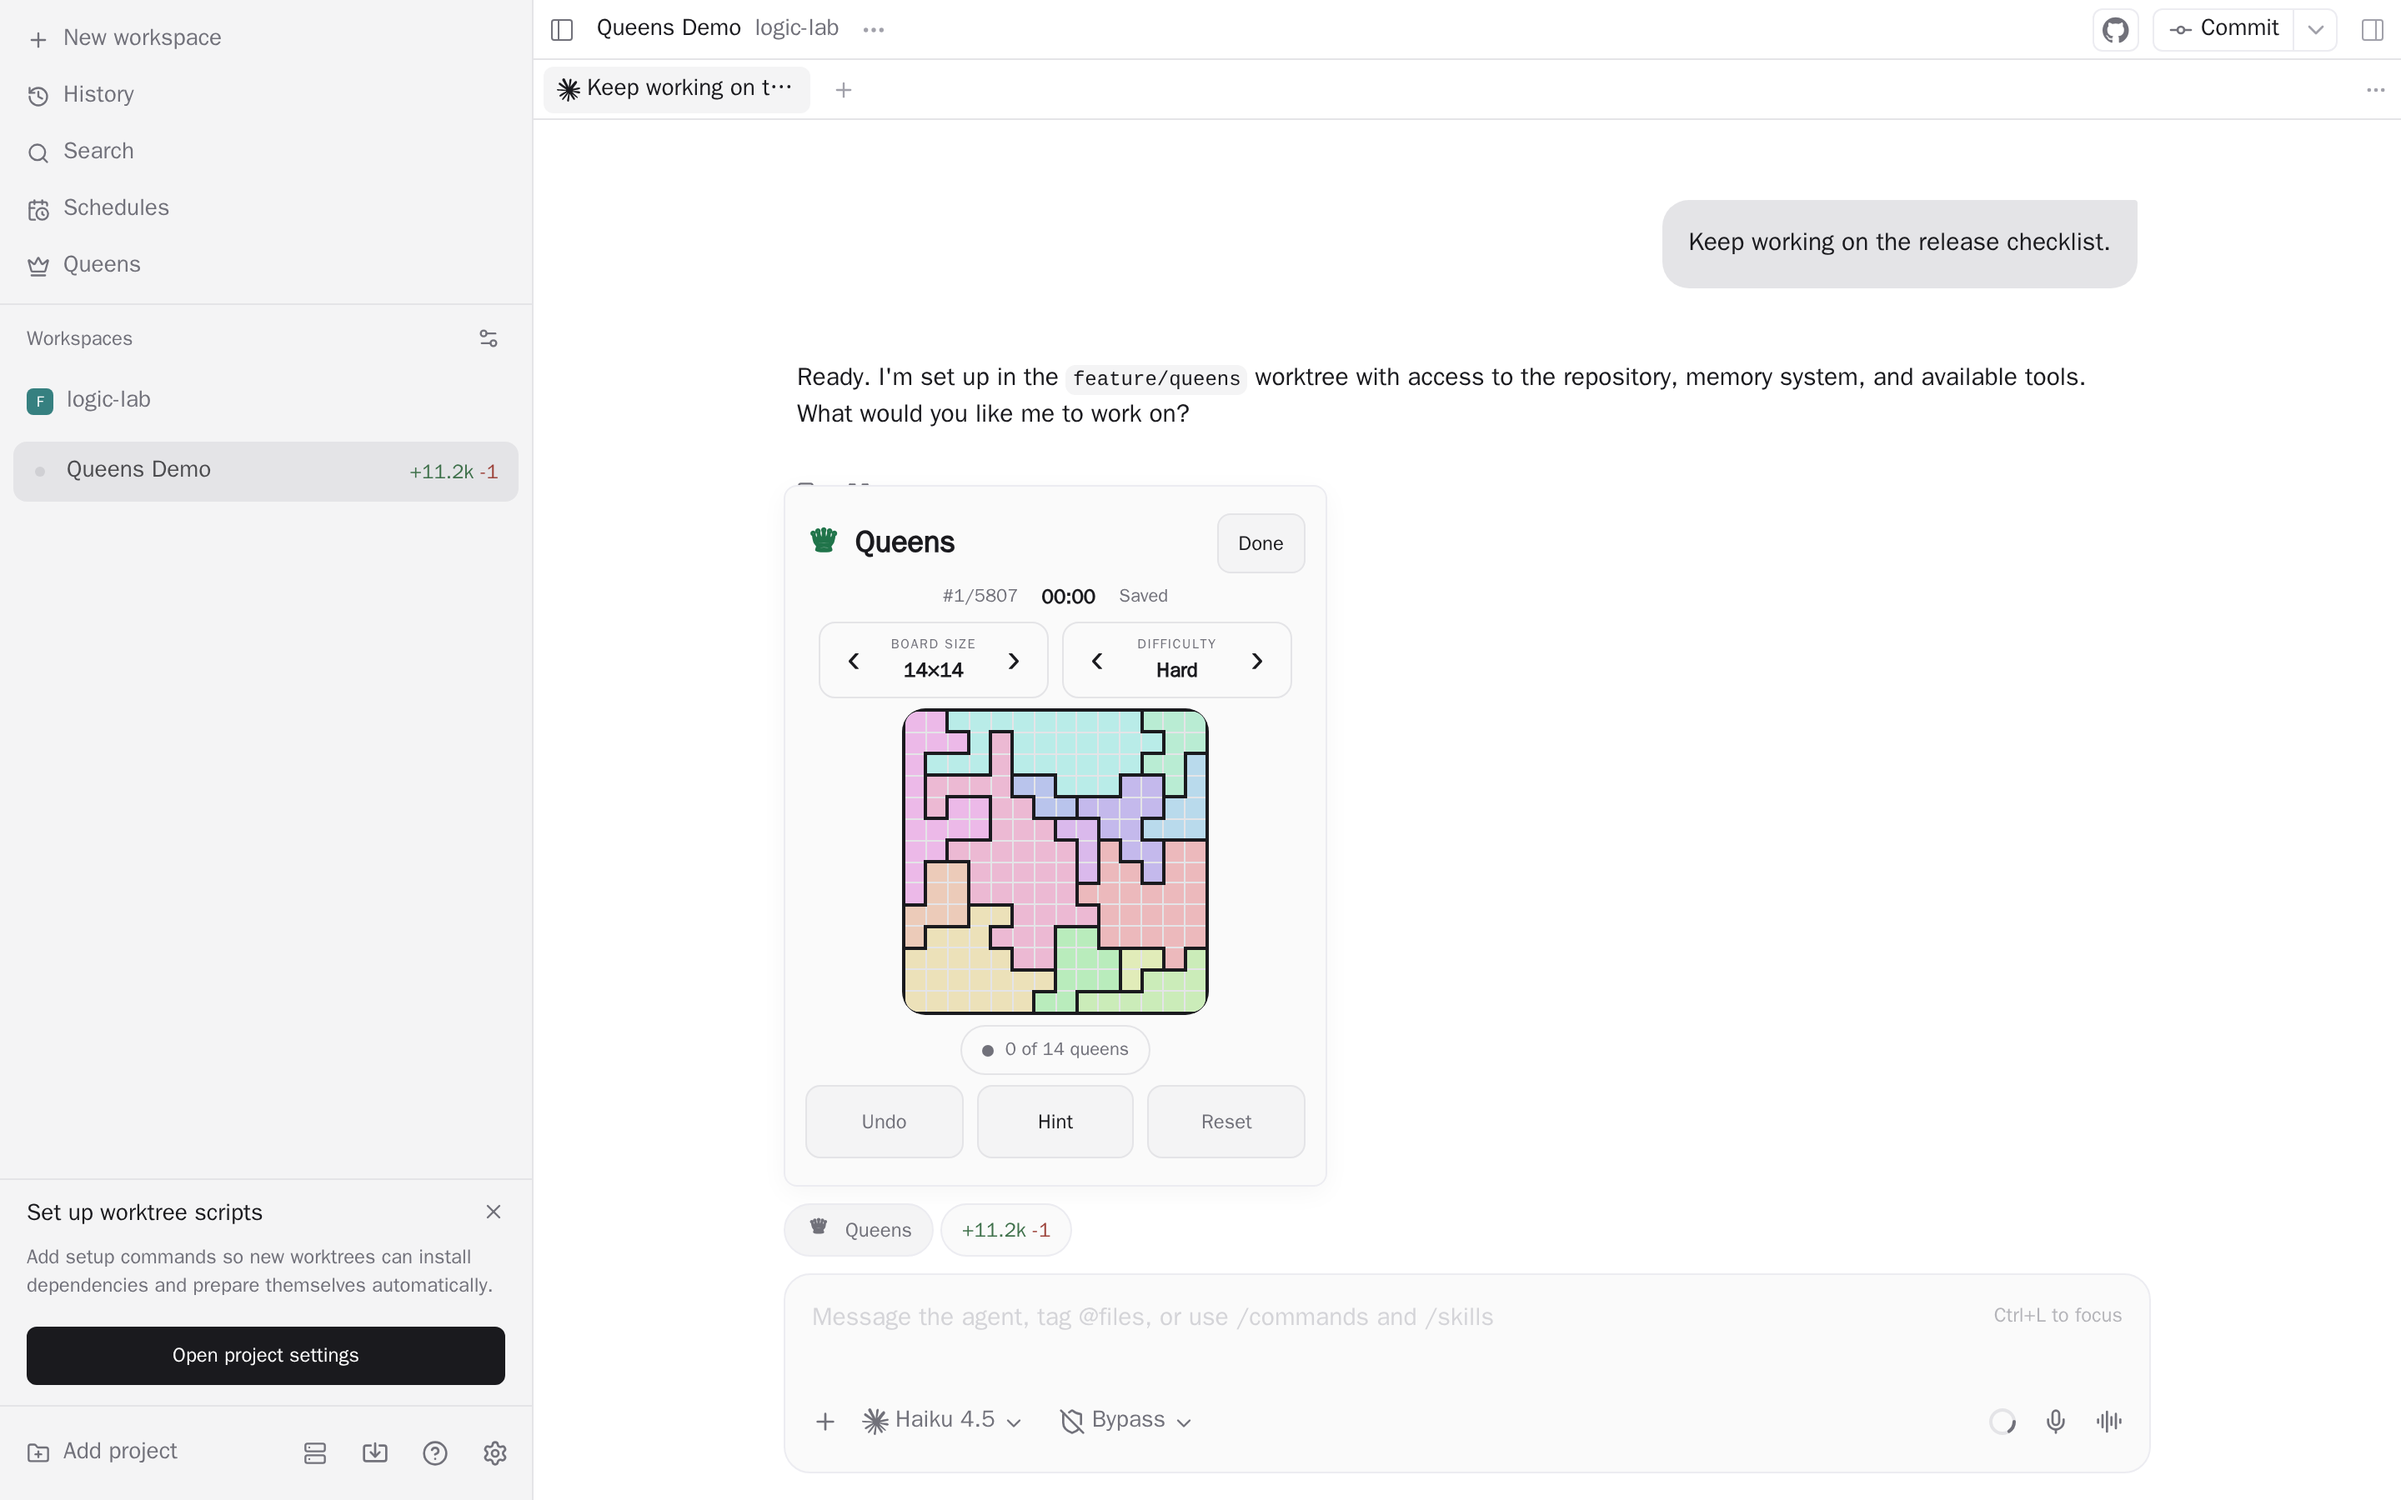
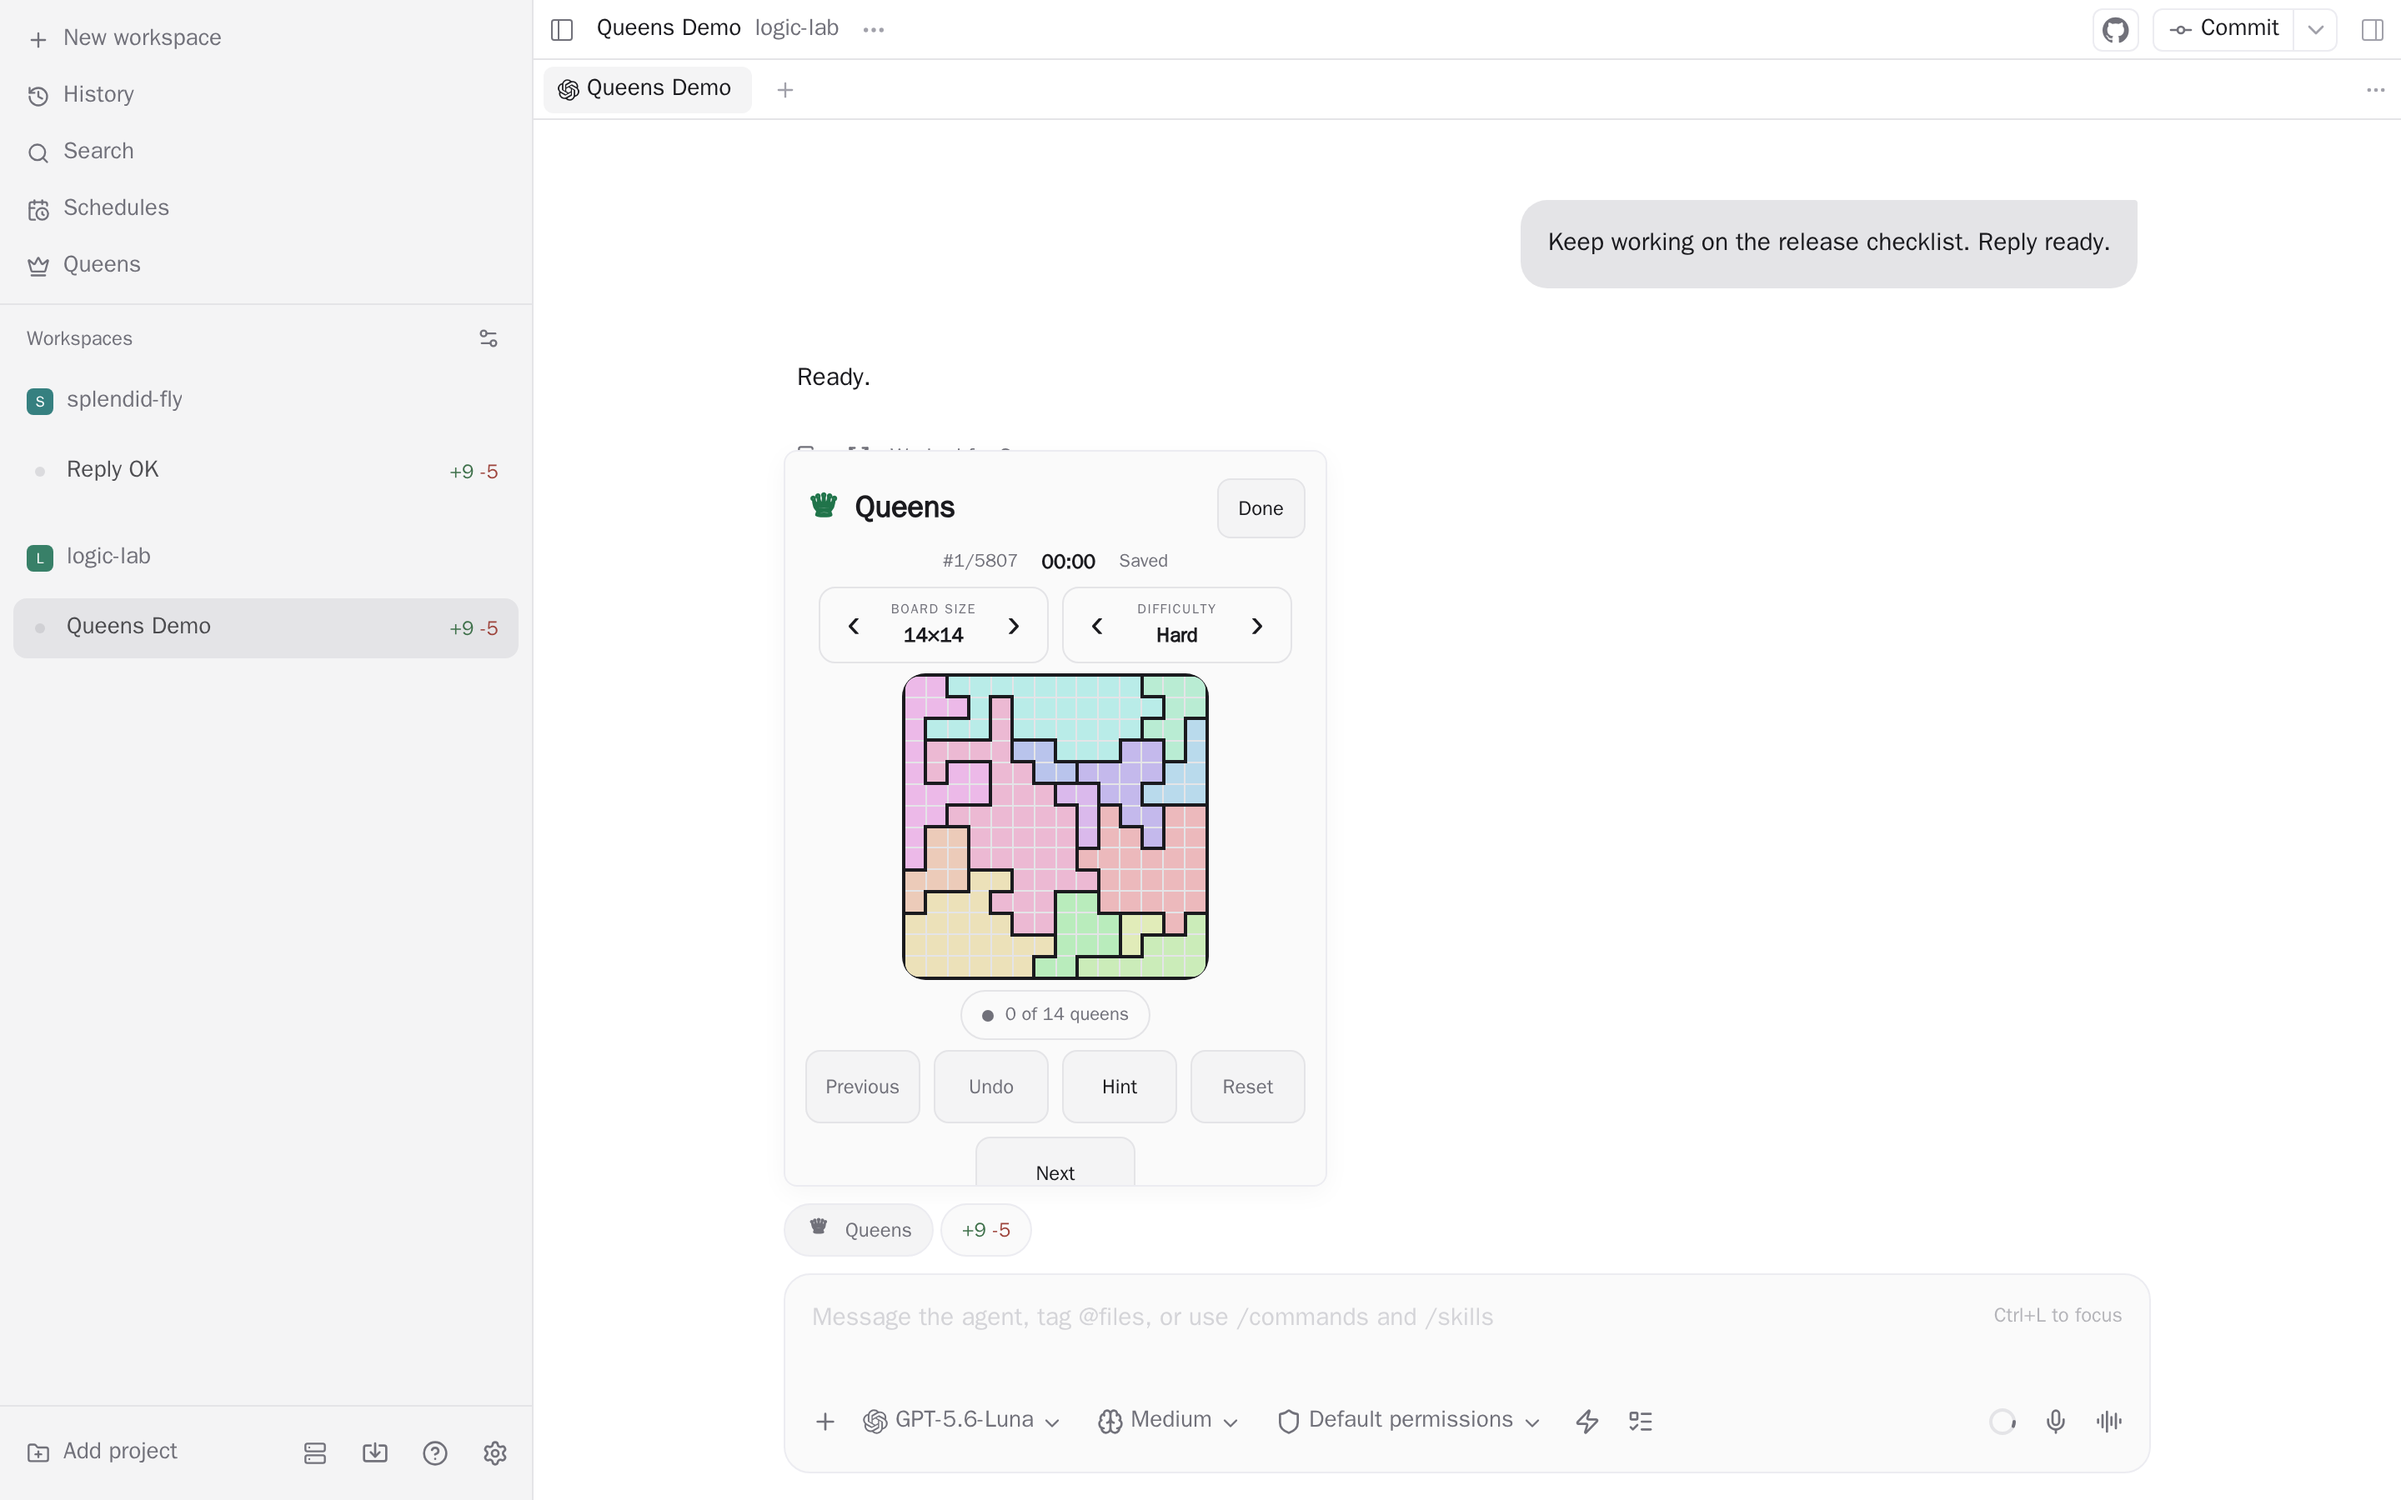
fix(queens): restore composer puzzle navigation (#145)

diff --git a/queens/client/queens-popover.tsx b/queens/client/queens-popover.tsx
@@ -144,6 +144,10 @@ function QueensPopoverGame({
       ? theme.colors.statusDanger
       : theme.colors.foregroundMuted;
   const puzzleNumber = state.activePuzzleIndex + 1;
+  const selectPuzzle = (index: number) => {
+    const clampedIndex = Math.min(Math.max(index, 0), state.puzzles.length - 1);
+    session.dispatch({ type: "select-puzzle", index: clampedIndex, now: Date.now() });
+  };
 
   return (
     <View style={styles.root}>
@@ -227,19 +231,19 @@ function QueensPopoverGame({
         canUndo={progress.history.length > 0}
         canHint={!progress.solved}
         canReset={hasProgress}
-        canGoPrevious={false}
-        canGoNext={false}
+        canGoPrevious={state.activePuzzleIndex > 0}
+        canGoNext={state.activePuzzleIndex < state.puzzles.length - 1}
         saving={session.saving}
         disabled={session.saving}
         dense
-        showNavigation={false}
+        showNavigation
         showSavingStatus={false}
         theme={theme}
         onUndo={() => session.dispatch({ type: "undo", now: Date.now() })}
         onHint={() => session.dispatch({ type: "hint", now: Date.now() })}
         onReset={() => session.dispatch({ type: "reset", now: Date.now() })}
-        onPrevious={IGNORE_GESTURE}
-        onNext={IGNORE_GESTURE}
+        onPrevious={() => selectPuzzle(state.activePuzzleIndex - 1)}
+        onNext={() => selectPuzzle(state.activePuzzleIndex + 1)}
       />
     </View>
   );
